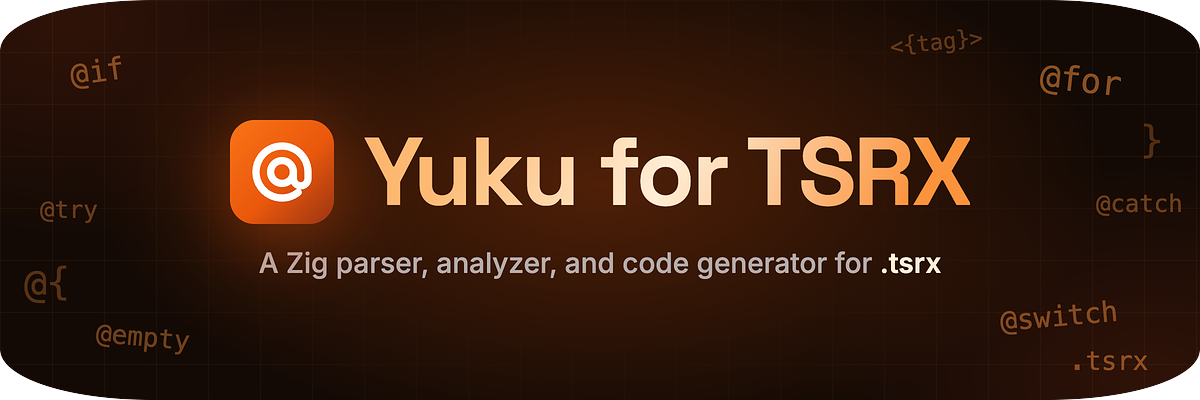
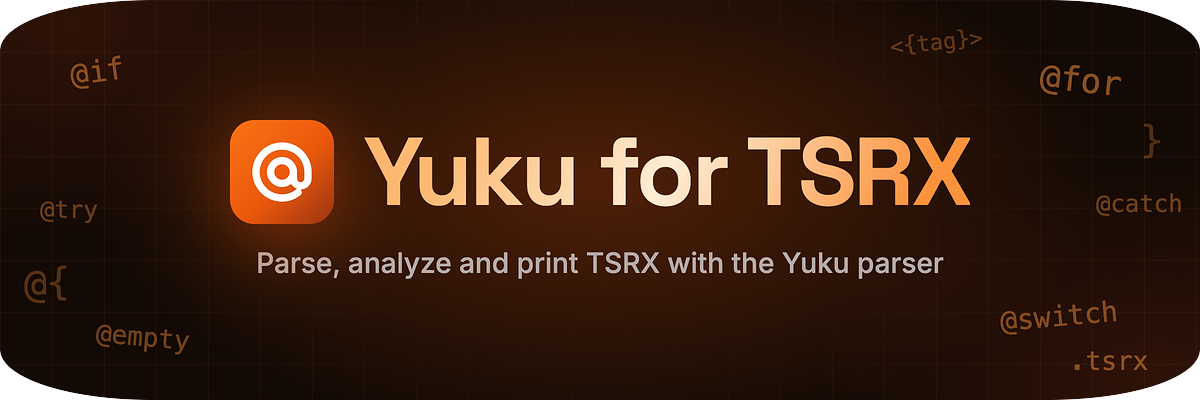
docs: the hero says what it does - parse, analyze and print TSRX with the Yuku parser - on the site, the README hero and the social card; README rewritten to the same rules

Changed region(s): [[0.2158, 0.63, 0.8017, 0.69]]

diff --git a/README.md b/README.md
@@ -10,46 +10,32 @@
   <a href="LICENSE"><img alt="MIT license" src="https://img.shields.io/npm/l/@tsrx/yuku"></a>
 </p>
 
-The official Yuku integration for TSRX. It gives you three tools for `.tsrx`
-files, from one JavaScript API:
+Parse, analyze and print [TSRX](https://tsrx.dev) with the [Yuku](https://yuku.fyi) parser. One JavaScript API, three tools for `.tsrx` files:
 
 - a **parser**, which reads a file into a tree your own tools can work with
-- an **analyzer**, which finds every scope, symbol, and reference in that tree
+- an **analyzer**, which links every scope, symbol and reference in that tree
 - a **code generator**, which turns a tree back into source text
 
-A `.tsrx` file is TypeScript with HTML-like markup in it, plus blocks like `@if`
-and `@for` for showing something only sometimes, or once per item in a list.
-[Yuku](https://github.com/yuku-toolchain/yuku) is a fast JavaScript and
-TypeScript parser written in Zig. This package teaches it to read `.tsrx` too,
-as a compile-time dialect: Yuku does all the JavaScript and TypeScript work and
-this package owns only the TSRX rules. Nothing is forked or patched.
+Yuku does all the JavaScript and TypeScript work; this package adds only the TSRX rules, as a dialect on top. Nothing is forked or patched.
 
-_Yuku for TSRX is the official Yuku integration maintained by the TSRX project._
-
-[**Docs**](https://yuku.tsrx.dev) &nbsp;·&nbsp; [**Getting started**](https://yuku.tsrx.dev/guide/quick-start) &nbsp;·&nbsp; [**Playground**](https://yuku.tsrx.dev/playground)
+[**Docs**](https://yuku.tsrx.dev) &nbsp;·&nbsp; [**Quick start**](https://yuku.tsrx.dev/guide/quick-start) &nbsp;·&nbsp; [**Playground**](https://yuku.tsrx.dev/playground)
 
 ## Install
 
 ```sh
-npm install @tsrx/yuku@latest
+npm install @tsrx/yuku
 ```
 
-You do not need Zig. Installing downloads one ready-built addon for your
-computer, one of two: macOS on Apple Silicon, or Linux x64 with glibc. Anything
-else has to build from source. [Platforms](https://yuku.tsrx.dev/reference/platforms)
-has both, and what building from source takes. You need Node.js 22 or newer.
+Installing downloads one ready-built addon for your machine: macOS on Apple Silicon, or Linux x64 with glibc. Node.js 22 or newer. Anything else [builds from source](https://yuku.tsrx.dev/guide/build-from-source).
 
 ## Usage
 
-Save this as `src/Cart.tsrx`. It has the three things a `.tsrx` file adds to
-TypeScript: an `@{ }` block around the body, `@if` and `@for` with their
-`@else` and `@empty` branches, and a `<style>` element holding plain CSS.
-
 ```tsx
+// src/Cart.tsrx
 export function Cart({ items }): unknown @{
   const total = items.length;
 
-  <section className="cart">
+  <section class="cart">
     @if (total > 0) {
       @for (const item of items; index i; key item.id) {
         <span>{i}:{item.id}</span>
@@ -75,84 +61,38 @@ walk(program, {
 });
 ```
 
-`parseModule` hands back a `Program` in the ESTree shape most JavaScript tools
-already read, with `start` and `end` offsets on every node. The TSRX parts keep
-their own names rather than being lowered to something else: `JSXCodeBlock`,
-`JSXIfExpression`, `JSXForExpression`, `JSXSwitchExpression`,
-`JSXTryExpression`, `JSXStyleElement`, and `TSRXExpression`. It takes the same
-arguments as `parseModule` from `@tsrx/core`, so it drops into code written
-for that. A file it cannot read throws a `SyntaxError` naming the line; `parse`
-returns the diagnostics instead of throwing. [Parse](https://yuku.tsrx.dev/guide/parse)
-has the full shape.
+`parseModule` hands back a `Program` in the ESTree shape most JavaScript tools already read, with `start` and `end` offsets on every node. The TSRX parts keep their own names instead of being rewritten into something else: `JSXCodeBlock`, `JSXIfExpression`, `JSXForExpression`, `JSXSwitchExpression`, `JSXTryExpression`, `JSXStyleElement` and `TSRXExpression`. It takes the same arguments as `parseModule` from `@tsrx/core`, so it drops into code written for that. A file it cannot read throws a `SyntaxError` naming the line; `parse` returns the diagnostics instead of throwing. [Parse](https://yuku.tsrx.dev/guide/parse) has the full shape.
 
 ## What it does
 
-**Parse.** `parse` and `parseModule` read `@{ }` blocks in statement,
-expression, and function-body position, `@if` / `@else if` / `@else`, `@for`
-with `; index`, `; key`, and `@empty`, `@switch` / `@case` / `@default`, `@try`
-/ `@pending` / `@catch`, tags whose name is an expression, `<{expression}>`,
-`<style>` blocks holding CSS (with the rules and selectors inside them read
-into the tree), lazy `&{ }` destructuring patterns, submodule imports, and text
-entities. Ordinary `.js`, `.ts`, `.jsx`, and `.tsx` go to Yuku unchanged.
+**Parse.** `parse` and `parseModule` read every TSRX construct where TSRX allows it, `<style>` blocks with the rules inside them read into the tree, lazy `&{ }` destructuring patterns, and tags whose name is an expression. Ordinary `.js`, `.ts`, `.jsx` and `.tsx` go to Yuku unchanged.
 
-**Analyze.** `analyze(source, "Cart.tsrx")` parses and then links the file:
-you get the same tree plus a `semantic` view of every scope, symbol, reference,
-import, and export, and which symbol each reference resolves to.
-[Analyze](https://yuku.tsrx.dev/guide/analyze) shows how to ask it questions.
+**Analyze.** `analyze(source, "Cart.tsrx")` parses and then links the file: the same tree plus a `semantic` view of every scope, symbol, reference, import and export, and which symbol each reference resolves to. [Analyze](https://yuku.tsrx.dev/guide/analyze) shows what each table answers.
 
-**Generate.** `generate(program)` prints a tree back out as source, with
-options for stripping types, minifying, indentation, quotes, and comments, and
-a source map. Every fixture in the test suite parses, prints, and parses again
-to the same tree. [Generate](https://yuku.tsrx.dev/guide/generate) lists the
-options; two of them, `minify: true` and `quotes: "shortest"`, are not accepted
-by the native code generator yet.
+**Generate.** `generate(program)` prints a tree back out as source: types kept or stripped, pretty or minified, comments kept or dropped, quotes as written, and a source map when you ask for one. Every fixture in the test suite parses, prints and parses again to the same tree. [Generate](https://yuku.tsrx.dev/guide/generate) has every option with a live diff.
 
-**This package compiles nothing.** It never builds or runs your app. Turning
-`.tsrx` into something a browser can run belongs to your framework's TSRX
-plugin. See [tsrx.dev/getting-started](https://tsrx.dev/getting-started).
-
-One measurement, on one machine and one corpus of 224 files
-([`benchmarks/m6-baseline.json`](./benchmarks/m6-baseline.json)): a median of
-29.7 microseconds per parse against 103.1 for `@tsrx/core`, and peak resident
-memory 0.85 times `@tsrx/core`'s. [Benchmarks](https://yuku.tsrx.dev/reference/benchmarks)
-has the protocol and what the number does not say.
+**This package compiles nothing.** Turning `.tsrx` into something a browser runs belongs to your framework's TSRX plugin. See [tsrx.dev/getting-started](https://tsrx.dev/getting-started).
 
 ## Platforms
 
-`@tsrx/yuku` is platform-neutral JavaScript. It lists two addon packages in
-`optionalDependencies`, pinned to its own version, and your package manager
-installs the one for your machine. You never name one yourself.
+`@tsrx/yuku` is platform-neutral JavaScript. It lists two addon packages in `optionalDependencies`, pinned to its own version, and your package manager installs the one for your machine.
 
-| Package                     | Runs on                    | Built for            |
-| --------------------------- | -------------------------- | -------------------- |
-| `@tsrx/yuku-darwin-arm64`   | macOS on Apple Silicon     | Apple M1 and newer   |
-| `@tsrx/yuku-linux-x64-gnu`  | Linux x64 with glibc       | x86-64-v2 (SSE4.2)   |
+| Package                    | Runs on                | Built for          |
+| -------------------------- | ---------------------- | ------------------ |
+| `@tsrx/yuku-darwin-arm64`  | macOS on Apple Silicon | Apple M1 and newer |
+| `@tsrx/yuku-linux-x64-gnu` | Linux x64 with glibc   | x86-64-v2 (SSE4.2) |
 
-There is no musl, Windows, x64 macOS, or arm64 Linux package yet. On those,
-`import "@tsrx/yuku"` throws on the first call rather than falling back to
-anything slower.
-
-Building from source needs Zig 0.16, pnpm, and a checkout of the Yuku branch
-from [yuku-toolchain/yuku#164](https://github.com/yuku-toolchain/yuku/pull/164)
-in a sibling directory named `yuku-minimal-seam`. That branch has since merged
-and shipped in Yuku 0.9.1 with a reworked extension surface; this package still
-builds against the branch until it moves to the released one.
-[Getting started](https://yuku.tsrx.dev/guide/quick-start) has the rest.
+On any other platform `import "@tsrx/yuku"` throws on the first call rather than falling back to anything slower. [Build from source](https://yuku.tsrx.dev/guide/build-from-source) takes Zig 0.16 and pnpm:
 
 ```sh
 zig build            # writes the package to zig-out/npm/yuku/
-zig build test       # the Zig test suite
+zig build test       # the parser test suite
 pnpm test            # the JavaScript test suite
 ```
 
 ## Contributing
 
-Issues and pull requests are welcome at [the issue
-tracker](https://github.com/tsrx-org/yuku/issues). Before changing the
-dialect, read [`goal.md`](./goal.md) for the boundary it keeps: plain
-JavaScript and TypeScript belong to Yuku. [How the dialect
-works](https://yuku.tsrx.dev/architecture/dialect) describes the extension
-points and the file layout. Run `zig build test` and `pnpm test` first.
+Issues and pull requests are welcome at [the issue tracker](https://github.com/tsrx-org/yuku/issues). Plain JavaScript and TypeScript belong to Yuku; this package owns only the TSRX rules. [How the dialect works](https://yuku.tsrx.dev/architecture/dialect) describes the extension points and the file layout. Run `zig build test` and `pnpm test` first.
 
 Join the [TSRX Discord community](https://discord.gg/HCYpT5QHQR).
 
